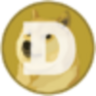
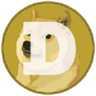
Build：分 Stock／Crypto、加搜尋、拿掉穩定幣；Anthropic 換 bStock 圖示、加密貨幣換官方圖示
- Build 分 Stock（股票、ETF、XAUt）與 Crypto 兩頁，搜尋代號或名稱（兩頁一起找）
- 拿掉 USDC、DAI，剩 103 個標的
- ANT 用 Binance bStock 的 Anthropic 圖示
- 24 個加密貨幣圖示換成 CoinGecko 官方圖（原本 8 個是文字佔位）

diff --git a/app.html b/app.html
@@ -120,6 +120,11 @@
 <sc-if value="{{ pageBuild }}" hint-placeholder-val="{{ false }}"><div style="max-width:{{ L.buildW }};margin:0 auto">
 <div style="padding:22px 16px 0"><h1 style="margin:0;font:500 34px/1.1 'Geist';letter-spacing:-.03em">Build</h1><p style="margin:6px 0 0;font:400 15px 'Geist';color:#5E6A76">Your picks. We keep the weights on target.</p></div>
 <div style="display:flex;align-items:baseline;justify-content:space-between;padding:26px 16px 12px"><span style="font:500 11px 'Geist Mono';letter-spacing:.1em;color:#2F6690">01 · PICK UP TO 10</span><span style="font:500 12px 'Geist Mono';color:#6B7785">{{ pickCount }}</span></div>
+<div style="display:flex;gap:8px;align-items:center;padding:0 16px 12px">
+<sc-for list="{{ bcats }}" as="q" hint-placeholder-count="2"><button onClick="{{ q.pick }}" style="flex:none;height:38px;padding:0 16px;border-radius:999px;cursor:pointer;font:500 14px 'Geist';border:1px solid {{ q.bd }};background:{{ q.bg }};color:{{ q.fg }};transition:background .2s,color .2s">{{ q.label }}</button></sc-for>
+<label style="flex:1;min-width:0;height:38px;display:flex;align-items:center;gap:8px;padding:0 14px;border:1px solid #E6E9ED;border-radius:999px;background:#fff"><svg width="16" height="16" viewBox="0 0 24 24" fill="none" stroke="#6B7785" stroke-width="2" stroke-linecap="round"><circle cx="11" cy="11" r="7"></circle><path d="M20 20l-3.5-3.5"></path></svg><input type="search" value="{{ q }}" onInput="{{ onQ }}" placeholder="Search" aria-label="Search assets" style="flex:1;min-width:0;border:0;outline:0;background:transparent;font:400 16px 'Geist';color:#0B0F14;padding:0"></label>
+</div>
+<sc-if value="{{ noAssets }}" hint-placeholder-val="{{ false }}"><div style="padding:24px 16px;font:400 15px 'Geist';color:#6B7785;text-align:center">No match</div></sc-if>
 <div style="display:grid;grid-template-columns:repeat(auto-fill,minmax(76px,1fr));gap:{{ L.aGap }}px;padding:0 16px">
 <sc-for list="{{ assets }}" as="a" hint-placeholder-count="15">
 <button onClick="{{ a.toggle }}" style="position:relative;cursor:pointer;background:{{ a.bg }};border:1px solid {{ a.bd }};border-radius:16px;padding:12px 4px 10px;display:flex;flex-direction:column;align-items:center;gap:7px;min-width:0;transition:background .2s,border-color .2s" style-active="transform:scale(.95)">
@@ -273,7 +278,7 @@
 </x-dc>
 <script type="text/x-dc" data-dc-script>
 const LOGO = t => 'app/l-' + t.toLowerCase() + '.png';
-const NAMES = { USDT: 'US Treasuries', NVDA: 'NVIDIA', AVGO: 'Broadcom', TSM: 'TSMC', AMD: 'AMD', AAPL: 'Apple', MSFT: 'Microsoft', TSLA: 'Tesla', GOOGL: 'Alphabet', META: 'Meta', AMZN: 'Amazon', PLTR: 'Palantir', COIN: 'Coinbase', BTC: 'Bitcoin', ETH: 'Ethereum', BNB: 'BNB', INTC: 'Intel', NFLX: 'Netflix', PDD: 'PDD Holdings', SPCX: 'SpaceX', DOGE: 'Dogecoin', SKHY: 'SK hynix', MRVL: 'Marvell', PENG: 'Penguin Solutions', MU: 'Micron', SNDK: 'SanDisk', ANT: 'Anthropic', EWY: 'South Korea ETF', MSTR: 'Strategy', BNC: 'BNC', CRCL: 'Circle', HOOD: 'Robinhood', BMNR: 'BitMine', CYPH: 'CYPH', XAUT: 'Tether Gold', GME: 'GameStop', AMC: 'AMC', DJT: 'Trump Media', BABA: 'Alibaba', RDDT: 'Reddit', QQQ: 'Nasdaq-100 ETF', SPY: 'S&P 500 ETF', SOXL: '3x Semiconductors', TQQQ: '3x Nasdaq-100' };
+const NAMES = { USDT: 'US Treasuries', NVDA: 'NVIDIA', AVGO: 'Broadcom', TSM: 'TSMC', AMD: 'AMD', AAPL: 'Apple', MSFT: 'Microsoft', TSLA: 'Tesla', GOOGL: 'Alphabet', META: 'Meta', AMZN: 'Amazon', PLTR: 'Palantir', COIN: 'Coinbase', BTC: 'Bitcoin', ETH: 'Ethereum', BNB: 'BNB', INTC: 'Intel', NFLX: 'Netflix', PDD: 'PDD Holdings', SPCX: 'SpaceX', DOGE: 'Dogecoin', SKHY: 'SK hynix', MRVL: 'Marvell', PENG: 'Penguin Solutions', MU: 'Micron', SNDK: 'SanDisk', ANT: 'Anthropic', EWY: 'South Korea ETF', MSTR: 'Strategy', BNC: 'BNC', CRCL: 'Circle', HOOD: 'Robinhood', BMNR: 'BitMine', CYPH: 'CYPH', XAUT: 'Tether Gold', GME: 'GameStop', AMC: 'AMC', DJT: 'Trump Media', BABA: 'Alibaba', RDDT: 'Reddit', QQQ: 'Nasdaq-100 ETF', SPY: 'S&P 500 ETF', SOXL: '3x Semiconductors', TQQQ: '3x Nasdaq-100', ABBV: 'AbbVie', ALAB: 'Astera Labs', AMAT: 'Applied Materials', APH: 'Amphenol', APLD: 'Applied Digital', AXP: 'American Express Company', BE: 'Bloom Energy', BLK: 'BlackRock', CBRS: 'Cerebras Systems', CEG: 'Constellation Energy', CIEN: 'Ciena', COHR: 'Coherent', CORZ: 'Core Scientific', CRDO: 'Credo Technology Group Holding Ltd', CRM: 'Salesforce', CRWV: 'CoreWeave', CVX: 'Chevron', GEV: 'GE Vernova', GOOG: 'Alphabet', GPRO: 'GoPro', IREN: 'IREN Limited', KO: 'Coca-Cola Company (The)', LLY: 'Eli Lilly and Company', MA: 'Mastercard Incorporated', MRNA: 'Moderna', NBIS: 'Nebius Group', NEM: 'Newmont', NOK: 'Nokia', ORCL: 'Oracle', PANW: 'Palo Alto Networks', PYPL: 'PayPal', SHAZ: 'SharonAI', STX: 'Seagate Technology Holdings PLC', UBER: 'Uber Technologies', V: 'Visa', VRT: 'Vertiv Holdings, LLC', VST: 'Vistra', GLD: 'SPDR Gold Shares', IEF: 'iShares 7-10 Year Treasury Bond ETF', IVV: 'iShares Core S&P 500 ETF', SGOV: 'iShares 0-3 Month Treasury Bond ETF', TLT: 'iShares 20+ Year Treasury Bond ETF', SOL: 'Solana', XRP: 'XRP', ADA: 'Cardano', TRX: 'TRON', TON: 'Toncoin', LINK: 'Chainlink', AVAX: 'Avalanche', DOT: 'Polkadot', LTC: 'Litecoin', BCH: 'Bitcoin Cash', NEAR: 'NEAR', UNI: 'Uniswap', AAVE: 'Aave', ATOM: 'Cosmos', FIL: 'Filecoin', CAKE: 'PancakeSwap', SHIB: 'Shiba Inu', PEPE: 'Pepe', ZEC: 'Zcash' };
 const F = (id, kind, cat, name, cover, ret, n, hold, about) => ({ id, kind, cat, name, cover, ret, n, hold, about });
 const FUNDS = [
   F('pelosi', 'PEOPLE', 'people', 'Pelosi Portfolio', 'app/p-pelosi.jpg', 23.7, 6, [['NVDA', 19], ['GOOGL', 19], ['MSFT', 19], ['AMZN', 19], ['INTC', 19], ['AVGO', 5]], 'Built from the stock trades Nancy Pelosi’s household discloses to Congress. NVIDIA, Alphabet, Microsoft, Amazon and Intel make up the core, with a small position in Broadcom.'),
@@ -298,8 +303,9 @@ const FUNDS = [
   F('soxl', 'THEME', 'leveraged', '3x Semiconductors', 'app/p-soxl.jpg', 7.2, 1, [['SOXL', 100]], 'Three times the daily move of US semiconductor stocks, through a single 3x leveraged token (SOXL).'),
   F('tqqq', 'THEME', 'leveraged', '3x Nasdaq', 'app/p-tqqq.jpg', 4.2, 1, [['TQQQ', 100]], 'Three times the daily move of the Nasdaq-100, through a single 3x leveraged token (TQQQ).'),
 ];
-// 測試網上可以買的 105 個標的（cre8-app src/lib/testnet-97.ts），股票、ETF、加密貨幣依序。
-const ASSETS = ['AAPL', 'ABBV', 'ALAB', 'AMAT', 'AMC', 'AMD', 'AMZN', 'ANT', 'APH', 'APLD', 'AVGO', 'AXP', 'BABA', 'BE', 'BLK', 'BMNR', 'BNC', 'CBRS', 'CEG', 'CIEN', 'COHR', 'COIN', 'CORZ', 'CRCL', 'CRDO', 'CRM', 'CRWV', 'CVX', 'CYPH', 'DJT', 'GEV', 'GME', 'GOOG', 'GOOGL', 'GPRO', 'HOOD', 'INTC', 'IREN', 'KO', 'LLY', 'MA', 'META', 'MRNA', 'MRVL', 'MSFT', 'MSTR', 'MU', 'NBIS', 'NEM', 'NFLX', 'NOK', 'NVDA', 'ORCL', 'PANW', 'PDD', 'PENG', 'PYPL', 'RDDT', 'SHAZ', 'SKHY', 'SNDK', 'SPCX', 'STX', 'TSLA', 'TSM', 'UBER', 'V', 'VRT', 'VST', 'EWY', 'GLD', 'IEF', 'IVV', 'QQQ', 'SGOV', 'SPY', 'TLT', 'SOXL', 'TQQQ', 'BTC', 'ETH', 'BNB', 'SOL', 'XRP', 'DOGE', 'ADA', 'TRX', 'TON', 'LINK', 'AVAX', 'DOT', 'LTC', 'BCH', 'NEAR', 'UNI', 'AAVE', 'ATOM', 'FIL', 'CAKE', 'SHIB', 'PEPE', 'ZEC', 'XAUT', 'USDC', 'DAI'];
+// 測試網上可以買的標的（cre8-app src/lib/testnet-97.ts，不含穩定幣）。Build 分 Stock（股票、ETF、XAUt）與 Crypto 兩頁，可搜尋代號或名稱（搜尋時兩頁一起找）。
+const CRYPTO = new Set(['BTC', 'ETH', 'BNB', 'SOL', 'XRP', 'DOGE', 'ADA', 'TRX', 'TON', 'LINK', 'AVAX', 'DOT', 'LTC', 'BCH', 'NEAR', 'UNI', 'AAVE', 'ATOM', 'FIL', 'CAKE', 'SHIB', 'PEPE', 'ZEC']);
+const ASSETS = ['AAPL', 'ABBV', 'ALAB', 'AMAT', 'AMC', 'AMD', 'AMZN', 'ANT', 'APH', 'APLD', 'AVGO', 'AXP', 'BABA', 'BE', 'BLK', 'BMNR', 'BNC', 'CBRS', 'CEG', 'CIEN', 'COHR', 'COIN', 'CORZ', 'CRCL', 'CRDO', 'CRM', 'CRWV', 'CVX', 'CYPH', 'DJT', 'GEV', 'GME', 'GOOG', 'GOOGL', 'GPRO', 'HOOD', 'INTC', 'IREN', 'KO', 'LLY', 'MA', 'META', 'MRNA', 'MRVL', 'MSFT', 'MSTR', 'MU', 'NBIS', 'NEM', 'NFLX', 'NOK', 'NVDA', 'ORCL', 'PANW', 'PDD', 'PENG', 'PYPL', 'RDDT', 'SHAZ', 'SKHY', 'SNDK', 'SPCX', 'STX', 'TSLA', 'TSM', 'UBER', 'V', 'VRT', 'VST', 'EWY', 'GLD', 'IEF', 'IVV', 'QQQ', 'SGOV', 'SPY', 'TLT', 'SOXL', 'TQQQ', 'XAUT', 'BTC', 'ETH', 'BNB', 'SOL', 'XRP', 'DOGE', 'ADA', 'TRX', 'TON', 'LINK', 'AVAX', 'DOT', 'LTC', 'BCH', 'NEAR', 'UNI', 'AAVE', 'ATOM', 'FIL', 'CAKE', 'SHIB', 'PEPE', 'ZEC'];
 const AVC = ['linear-gradient(135deg,#6F93AE,#16222D)', 'linear-gradient(135deg,#E3B55B,#9A6B1E)', 'linear-gradient(135deg,#7FB59A,#1F5A41)', 'linear-gradient(135deg,#B9A2D6,#4B3A6E)', 'linear-gradient(135deg,#3C4651,#0B0F14)'];
 const RANGES = [['1W', .03, 7, 36, 'past week'], ['1M', .1, 30, 60, 'past month'], ['3M', .28, 90, 90, 'past 3 months'], ['1Y', 1, 365, 120, 'past year'], ['ALL', 1.7, 730, 140, 'since launch']];
 const MON = ['Jan', 'Feb', 'Mar', 'Apr', 'May', 'Jun', 'Jul', 'Aug', 'Sep', 'Oct', 'Nov', 'Dec'];
@@ -325,7 +331,7 @@ class Component extends DCLogic {
   state = {
     page: 'home', fund: null, range: 3, fh: null, prange: 1, ph: null, filter: 0,
     modal: false, step: 'amount', amount: '', target: null, procOff: 264, doneSc: .4,
-    picks: [], weights: {}, freq: 1, mixName: '', cash: 2380, acct: false, ptab: 0, emailLinked: false, pname: 'Jooe', photo: null, avc: 0,
+    picks: [], weights: {}, bcat: 0, q: '', freq: 1, mixName: '', cash: 2380, acct: false, ptab: 0, emailLinked: false, pname: 'Jooe', photo: null, avc: 0,
     holdings: [
       { id: 'pelosi', name: 'Pelosi Portfolio', cover: 'app/p-pelosi.jpg', val: 4236.80, ret: 23.7 },
       { id: 'ai-chips', name: 'AI Chips', cover: 'app/p-ai.jpg', val: 3104.12, ret: 62.3 },
@@ -420,6 +426,8 @@ class Component extends DCLogic {
     const off = { bg: '#EDF0F3', fg: '#9AA4AE', sh: 'none' };
     const sepL = (i, a) => i < a.length - 1 ? '1px solid #E6E9ED' : '0';
     const card = f => ({ ...f, retText: pct(f.ret), col: f.ret >= 0 ? '#16854F' : '#D23F2E', pcol: f.ret >= 0 ? '#8BE3B5' : '#FF9B8F', spark: spark(FUNDS.indexOf(f) + 2, f.ret), open: () => this.open(f.id) });
+    const qq = s.q.trim().toLowerCase();
+    const shownAssets = qq ? ASSETS.filter(t => t.toLowerCase().includes(qq) || (NAMES[t] || '').toLowerCase().includes(qq)) : ASSETS.filter(t => CRYPTO.has(t) === (s.bcat === 1));
     const FIL = [['All', null], ['People', 'people'], ['AI', 'ai'], ['Crypto', 'crypto'], ['Markets', 'markets'], ['Leveraged', 'leveraged']];
     const fcat = FIL[s.filter][1];
     const people = FUNDS.filter(f => f.kind === 'PEOPLE');
@@ -471,7 +479,9 @@ class Component extends DCLogic {
       openBuy: () => this.setState({ modal: true, side: 'buy', step: 'amount', amount: '', target: { id: f.id, name: f.name, cover: f.cover } }),
       openSell: () => this.setState({ modal: true, side: 'sell', step: 'amount', amount: '', target: { id: f.id, name: f.name, cover: f.cover } }),
       hasPos: !!own, buyPad: own ? 26 : 34, buyFlex: own ? 'none' : '1',
-      assets: ASSETS.map(t => { const on = s.picks.includes(t); return { t, logo: LOGO(t), toggle: () => this.toggleAsset(t), on: on ? 1 : 0, sc: on ? 1 : .4, bg: on ? '#FFFFFF' : '#FFFFFF', bd: on ? '#0B0F14' : '#E6E9ED' }; }),
+      bcats: ['Stock', 'Crypto'].map((label, i) => ({ label, pick: () => this.setState({ bcat: i }), bg: s.bcat === i ? '#0B0F14' : '#FFFFFF', fg: s.bcat === i ? '#fff' : '#3C4651', bd: s.bcat === i ? '#0B0F14' : '#E6E9ED' })),
+      q: s.q, onQ: e => this.setState({ q: e.target.value }), noAssets: shownAssets.length === 0,
+      assets: shownAssets.map(t => { const on = s.picks.includes(t); return { t, logo: LOGO(t), toggle: () => this.toggleAsset(t), on: on ? 1 : 0, sc: on ? 1 : .4, bg: on ? '#FFFFFF' : '#FFFFFF', bd: on ? '#0B0F14' : '#E6E9ED' }; }),
       pickCount: s.picks.length + ' / 10', hasPicks: s.picks.length > 0,
       picks: s.picks.map(t => ({ t, logo: LOGO(t), w: s.weights[t] || 0, bar: s.weights[t] || 0, slide: e => { const v = +e.target.value; this.setState(st => ({ weights: this.rebalance(st.picks, st.weights, t, v) })); } })),
       mixName: s.mixName, nameLen: s.mixName.length, onName: e => this.setState({ mixName: e.target.value.slice(0, 28) }),
